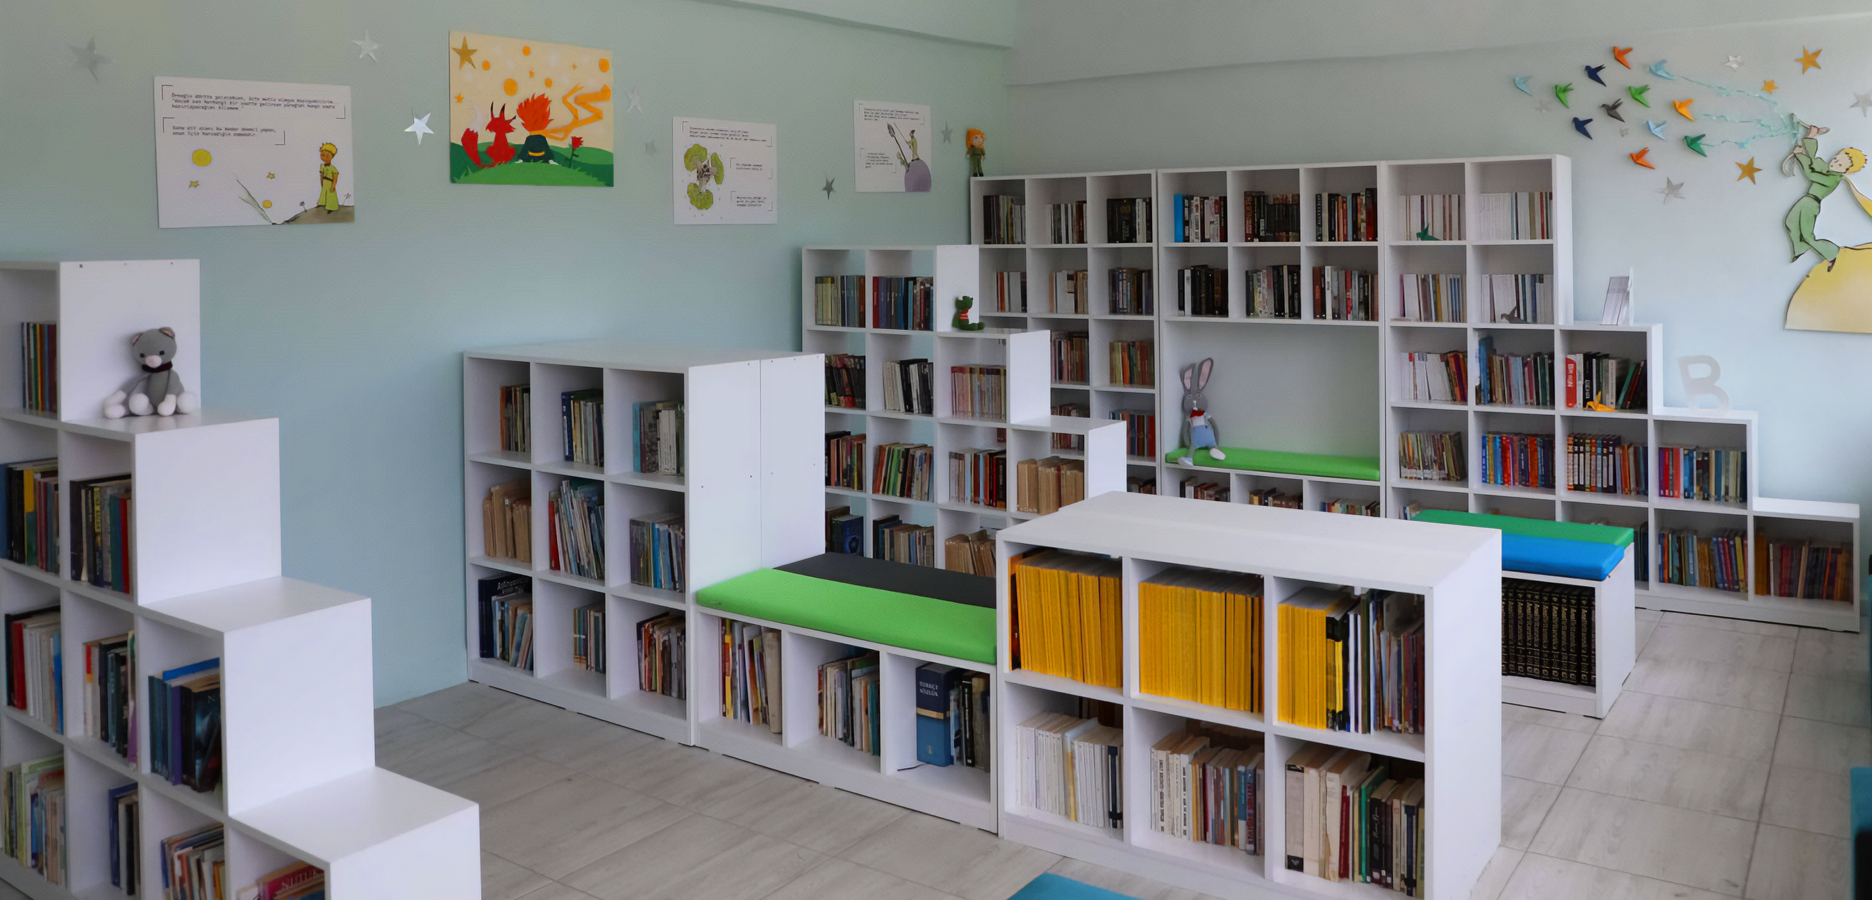
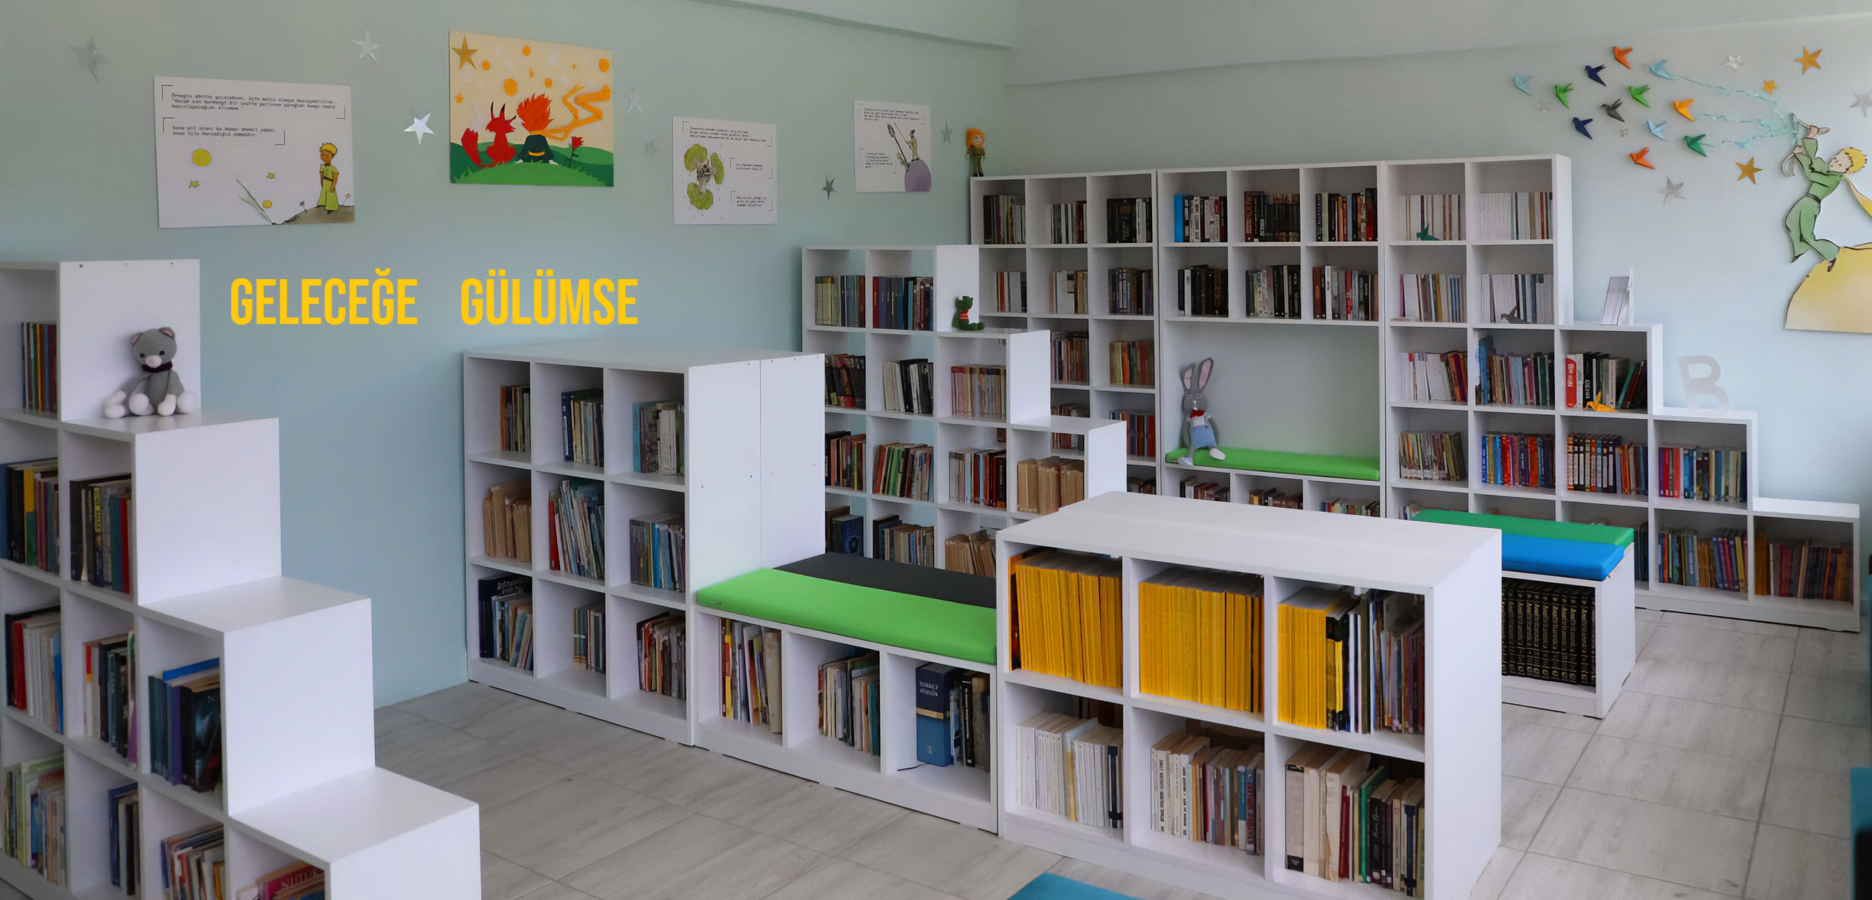
Footer Tamamlandı Ana Sayfada birkaç değişiklik yapıldı

Changed region(s): [[0.1239, 0.3111, 0.3408, 0.3733]]

diff --git a/src/components/Footer.jsx b/src/components/Footer.jsx
@@ -9,72 +9,63 @@ const Footer = () => {
       <div className='footer'>
         <div className='footerDesc'>
           <div className='footerComment'>
-
             <section>
               <h6 className='downloadGetirApplication'>Ne İstersin'i indirin!</h6>
               <nav className='downloadGetirApplicationIcon'>
-                <a href="#">
+                <Link to="/*">
                   <img src="https://getir.com/_next/static/images/appstore-tr-141ed939fceebdcee96af608fa293b31.svg" alt="" />
-                </a>
-                <a href="#">
+                </Link>
+                <Link to="/*">
                   <img src="https://getir.com/_next/static/images/googleplay-tr-6b0c941b7d1a65d781fb4b644498be75.svg" alt="" />
-                </a>
-                <a href="#">
+                </Link>
+                <Link to="/*">
                   <img src="https://getir.com/_next/static/images/huawei-appgallery-tr-4b890fa3167bc62f9069edaf45aa7f30.svg" alt="" />
-                </a>
+                </Link>
               </nav>
             </section>
-
             <section>
               <h6 className='downloadGetirApplication'>Ne İstersin'i Keşfedin</h6>
               <nav className='footerFirstStatemenet' >
                 <ul>
-                  <li ><Link to="/Hakkımızda"> <a href="#"><p2 className="statment">Hakkımızda</p2><br /></ a></Link></li>
-                  <li><Link to="/İletişim"> <a href="#"><p2 className="statment">İletişim</p2><br /></a></Link></li>
-                  <li><Link to="/Teknoloji Kariyerleri"> <a href="#"><p2 className="statment">Teknoloji Kariyerleri</p2><br />  </a></Link></li>
-                  <li><Link to="/Sosyal Sorumluluk Projeleri"><a href="#"><p2 className="statment">Sosyal Sorumluluk Projeleri</p2></a></Link></li>
+                  <li ><Link to="/Hakkımızda"><p2 className="statment">Hakkımızda</p2><br /></Link></li>
+                  <li><Link to="/İletişim"><p2 className="statment">İletişim</p2><br /></Link></li>
+                  <li><Link to="/Teknoloji Kariyerleri"><p2 className="statment">Teknoloji Kariyerleri</p2><br /></Link></li>
+                  <li><Link to="/Sosyal Sorumluluk Projeleri"><p2 className="statment">Sosyal Sorumluluk Projeleri</p2></Link></li>
                 </ul>
               </nav>
             </section>
-
             <section>
               <h6 className='downloadGetirApplication'>Size Yardımcı Olalım?</h6>
               <nav className='footerFirstStatemenet' >
                 <ul>
-                  <li> <a href="#"><p2 className="statment">Sıkça Sorulan Sorular</p2><br /></a></li>
-                  <a href="#"><p2 className="statment">Kişisel Verilerin Korunması</p2><br /></a>
-                  <a href="#"><p2 className="statment">Gizlilik Politikası</p2><br />  </a>
-                  <a href="#"> <p2 className="statment">Kullanım Koşulları</p2><br /></a>
-                  <a href="#"><p2 className="statment">Çerez Politikası</p2></a> <br />
+                  <li> <Link to="Sıkça-Sorulan-Sorular"><p2 className="statment">Sıkça Sorulan Sorular</p2><br /></Link></li>
+                  <Link to="/Kişisel-Verilerin-Korunması"><p2 className="statment">Kişisel Verilerin Korunması</p2><br /></Link>
+                  <Link to="/Gizlilik-Politikası"><p2 className="statment">Gizlilik Politikası</p2><br />  </Link>
+                  <Link to="/Çerez-Politikası"><p2 className="statment">Çerez Politikası</p2></Link> <br />
                 </ul>
               </nav>
             </section>
-
             <section>
               <h6 className='downloadGetirApplication'>İş Ortağımız Olun</h6>
               <nav className='footerFirstStatemenet' >
                 <ul>
-                  <li> <a href="#"><p2 className="statment">Bayimiz Olun</p2><br /></a></li>
-                  <a href="#"><p2 className="statment">Deponuzu Kiralayın</p2><br /></a>
-                  <a href="#"><p2 className="statment">Restorantımız Olun</p2><br />  </a>
-                  <a href="#"> <p2 className="statment">Zincir Restoranlar</p2><br /></a>
-                  <a href="#"><p2 className="statment">İşlem Rehberi</p2></a>
+                  <Link to="/*"><p2 className="statment">Deponuzu Kiralayın</p2><br /></Link>
+                  <Link to="/*"><p2 className="statment">Restorantımız Olun</p2><br />  </Link>
+                  <Link to="/*"> <p2 className="statment">Zincir Restoranlar</p2><br /></Link>
+                  <Link to="/*"><p2 className="statment">İşlem Rehberi</p2></Link>
                 </ul>
               </nav>
             </section>
-
-
             <div className="lowerFooter">
               <p className='copyright'> <hr /> &copy; 2023  <span> ~ Bahadır Bulut
                 <br />
-                <a href="#"> **   Bilgi Toplumu Hizmetleri İçin Tıklayınız  🥰 </a>   </span></p>
+                <Link to="/*"> **   Bilgi Toplumu Hizmetleri İçin Tıklayınız  🥰 </Link>   </span></p>
               <nav className='footerIcon'>
                 <a href="https://github.com/Bahadir-blt/" target='_blank'> <FaGithub /> </a>
                 <a href="https://twitter.com/bulutbahadirr"> <FaTwitter /> </a>
                 <a href="https://www.instagram.com/bahadir.bulutt/" target='_blank'> <FaInstagram /> </a>
               </nav>
             </div>
-
           </div>
         </div>
       </div>

diff --git a/src/foot/Cookiepolicy.jsx b/src/foot/Cookiepolicy.jsx
@@ -1,0 +1,25 @@
+import '../css/page.css'
+
+export default function CookiePolicy() {
+    return (
+        <>
+            <h1 className='privacyPolicy' >Çerez Politikamız</h1>
+
+            <p className='privacyPolicyDesc'>
+
+
+                Bu Çerez Politikası,  Ne İstersin olarak adlandırılan şirketimiz tarafından işletilen web sitesi ve diğer dijital platformlarda kullanılan çerezlerle ilgili açıklamalarda bulunmaktadır. Çerezler, web sitesinin düzgün bir şekilde çalışması için gerekli olan ve kullanıcı deneyimini geliştirmek amacıyla kullanılan küçük metin dosyalarıdır. Lütfen bu politikayı dikkatlice okuyunuz.
+                <br /><span>Çerez Kullanımı:</span>
+                Web sitemizi ziyaret ettiğinizde, tarayıcınıza bir veya birkaç çerez yerleştirebiliriz. Bu çerezler, web sitesinin kullanımını analiz etmek, içeriği kişiselleştirmek, reklamları özelleştirmek ve genel kullanıcı deneyimini iyileştirmek için kullanılır.
+                Türleri:
+                Web sitemizde kullanılan çerezler, oturum çerezleri (session cookies) ve kalıcı çerezler (persistent cookies) gibi çeşitli türleri içerebilir. Oturum çerezleri, tarayıcı penceresi kapatıldığında silinen geçici çerezlerdir. Kalıcı çerezler ise belirli bir süre boyunca cihazınızda saklanabilir.
+                 <br /><span>Üçüncü Taraf Çerezleri:</span>
+                Üçüncü taraf hizmet sağlayıcıları tarafından da çerezler kullanılabilir. Bu çerezler, reklamcılık, analiz ve diğer hizmetler için kullanılabilir. Bu çerezlerin kullanımı, ilgili üçüncü tarafın gizlilik politikalarına tabi olabilir.
+                Çerez Ayarları:
+                Tarayıcı ayarlarınızı kullanarak çerezleri kabul etmeyi veya reddetmeyi tercih edebilirsiniz. Ancak, çerezleri devre dışı bırakmak, web sitemizin bazı fonksiyonlarının düzgün çalışmasını engelleyebilir.
+                Değişiklikler:
+                Çerez Politikamızdaki değişiklikleri zaman zaman güncelleyebiliriz. Bu değişiklikleri size bildirmek amacıyla sitemizde duyurular yapabiliriz.
+                Bu Çerez Politikası, [23.12.2023] itibariyle yürürlüktedir. Politikamızla ilgili herhangi bir sorunuz varsa, lütfen [iletisim@neistersin.com] adresinden bizimle iletişime geçiniz.
+            </p> </>
+    )
+}

diff --git a/src/foot/Privacypolicy.jsx b/src/foot/Privacypolicy.jsx
@@ -1,0 +1,24 @@
+import '../css/page.css'
+
+export default function Privacypolicy() {
+    return (
+        <>
+            <h1 className='privacyPolicy' >Gizlilik Politikamız</h1>
+            <p className='privacyPolicyDesc'>
+                Bu Gizlilik Politikası, Ne İstersin olarak adlandırılan şirketimiz tarafından işletilen web sitesi ve diğer dijital platformlarda topladığımız,
+                kullandığımız, paylaştığımız ve sakladığımız bilgilerle ilgili açıklamalarda bulunmaktadır. Sizinle ilgili topladığımız bilgilerin gizliliğine ve güvenliğine önem veriyoruz. Lütfen bu politikayı dikkatlice okuyunuz.
+                Toplanan Bilgiler:
+                Web sitemizi ziyaret ettiğinizde veya hizmetlerimizi kullandığınızda,
+                kişisel bilgilerinizi (ad, e-posta adresi, telefon numarası vb.) belirli durumlar için toplayabiliriz. Bu bilgileri sağlarken gizliliğinizi korumak için gerekli önlemleri alırız.
+                Bilgi Kullanımı:
+                Topladığımız bilgileri, size sunduğumuz hizmetleri sağlamak, iyileştirmek, kişiselleştirmek, yeni hizmetler geliştirmek ve güvenliği sağlamak amacıyla kullanabiliriz. Ayrıca, sizden izin aldığımız veya yasal bir zorunluluğa tabi olduğumuz durumlar dışında, kişisel bilgilerinizi üçüncü taraflarla paylaşmamaktayız.
+                Çerezler ve Takip Teknolojileri:
+                Gizlilik Haklarınız:
+                KVKK ve benzeri yasal düzenlemelere uygun olarak, kişisel verileriniz üzerinde kontrol sahibi olmanızı sağlamak için çeşitli haklara sahipsiniz. Bu hakları kullanma ve bilgi talebinde bulunma konusunda size yardımcı olmak için buradayız.
+                Değişiklikler:
+                Gizlilik Politikamızdaki değişiklikleri zaman zaman güncelleyebiliriz. Bu değişiklikleri size bildirmek amacıyla sitemizde duyurular yapabiliriz.
+                Bu Gizlilik Politikası, [23.12.2023] itibariyle yürürlüktedir. Politikamızla ilgili herhangi bir sorunuz varsa, lütfen [iletisim@neistersin.com] adresinden bizimle iletişime geçiniz.
+            </p>
+            </>
+    )
+}

diff --git a/src/main.jsx b/src/main.jsx
@@ -27,6 +27,11 @@ import Health from './ProductItem/Health.jsx'
 import Responsibility from './foot/Responsibility.jsx'
 import LoginRegister from './components/Login.jsx'
 import { createClient } from '@supabase/supabase-js'
+import Questions from './foot/Questions.jsx'
+import Conservation from './foot/Conservation.jsx'
+import Privacypolicy from './foot/Privacypolicy.jsx'
+import CookiePolicy from './foot/Cookiepolicy.jsx'
+import Notfound from './components/Notfound.jsx'
 export const supabase = createClient('https://vyylaomwkgdihavezcsw.supabase.co', 'eyJhbGciOiJIUzI1NiIsInR5cCI6IkpXVCJ9.eyJpc3MiOiJzdXBhYmFzZSIsInJlZiI6InZ5eWxhb213a2dkaWhhdmV6Y3N3Iiwicm9sZSI6ImFub24iLCJpYXQiOjE3MDMxNzg3NTMsImV4cCI6MjAxODc1NDc1M30.V7xqe7wshf0UImKgExIFpctlLEpmGMK-LfAxrxj6OYc')
 
 const router = createBrowserRouter (
@@ -110,6 +115,10 @@ const router = createBrowserRouter (
           ] 
         },
         {
+          path : '/*',
+          element : <Notfound  />,
+        },
+        {
           path : '/login',
           element : <LoginRegister  />,
         },
@@ -133,10 +142,23 @@ const router = createBrowserRouter (
         {
           path : '/Sosyal Sorumluluk Projeleri',
           element : <Responsibility/>,
+        },
+        {
+          path : '/Sıkça-Sorulan-Sorular',
+          element : <Questions />,
+        },
+        {
+          path : '/Kişisel-Verilerin-Korunması',
+          element : <Conservation />,
+        },
+        {
+          path : '/Gizlilik-Politikası',
+          element : <Privacypolicy/>,
+        },
+        {
+          path : '/Çerez-Politikası',
+          element : <CookiePolicy/>,
         }
-       
-       
-       
       ]
     }
   ]

diff --git a/src/foot/Responsibility.jsx b/src/foot/Responsibility.jsx
@@ -1,7 +1,17 @@
+import '../css/page.css'
+
+
 export default function Responsibility () {
     return (
         <>
-        deneme
+        <div className="responsibilityContainer">
+        <img className="responsibilityImage"   src="src\image\SSP\gelecege-gulumse_1633372820108.png" alt="" />
+        <h3 className='responsibilityHeader'> <span className='smile'>Geleceğe Gülümse</span>  Destek - 2018 </h3>
+        <p className='responsibilityText'>Çocukların hayallerine sahip çıkan ve hayallerine giden yolda onları destekleyen Geleceğe Gülümse ekibiyle birlikte 23 Nisan Ulusal Egemenlik ve Çocuk Bayramı’nda Çanakkale Evciler Köyü Şehit Osman Özkan İlkokulu’nu ziyaret ettik. Getir gönüllüleriyle, öğrencilerin geleceğine ve okuma alışkanlıklarının artmasına katkıda bulunmak için bir kütüphane inşa ettik.</p>
+        <img className='responsibilityImageTwo' src="src\image\SSP\patili-dostlar_1633373032958.png" alt="" />
+        <h3 className='responsibilityHeader'> <span className='smile'>Sokaktaki Patili Dostlarımıza Mama Yardımı</span>  Koronavirüs Dönemi </h3>
+        <p className='responsibilityText'>Korona Döneminde Sokak Hayvanlarına Mama Yardımı” projemiz kapsamında uygulamamız üzerinden sipariş verilen her 5 TL değerindeki Yardım Maması’nı HAYTAP aracılığıyla sokak hayvanlarına ulaştırdık. Pandemi döneminde yaşanan sokağa çıkma yasakları ve işletmelerin kapanması nedeniyle sokaklarda aç kalan patili dostlarımıza toplam 23 ton mama desteği sağladık.</p>
+        </div>
         </>
     ) 
 

diff --git a/src/css/Page.css b/src/css/Page.css
@@ -90,3 +90,81 @@
     border-radius: 20%;
     border: 1px solid #838181;
 }
+.responsibilityImage{
+    width: 100%;
+    height: 100%;
+    object-fit: cover;
+    border-radius: 0px;
+    opacity: 0.7;
+}
+.responsibilityHeader{
+    text-align: center;
+    margin-top: 15px;
+ 
+    letter-spacing: 0.16px;
+    color: rgb(62, 62, 62);
+}
+.smile{
+    color: #5c3cbb;
+}
+.responsibilityText{
+    text-align: center;
+    margin-top: 15px;
+    letter-spacing: 0.16px;
+    color: rgb(62, 62, 62);
+}
+.responsibilityImageTwo{
+    margin-top: 50px;
+}
+.questionsMainHeader{
+    margin:50px 50px;
+    color: #5c3cbb;
+ 
+
+}
+.questionsHeader{
+    padding-top: 20px;
+    color: #ffd300;
+    margin-left: 50px;
+}
+.questions{
+    margin-top: 15px;
+    font-size: 15px;
+    color:rgb(0, 0, 0); 
+}
+.questionscontainer{
+
+    display: grid;
+    grid-template-columns: 1fr 1fr  1fr ;
+}
+.conservation{
+    margin:55px 150px;
+    display: flex;
+    gap: 15px;
+}
+.privacyPolicy{
+    color: blueviolet   ;
+    margin:15px 50px;
+    display: flex;
+    gap: 15px;
+}
+.privacyPolicyDesc{
+    font-size: 17px;
+   margin-left: 50px;
+    margin-top: 15px;
+    letter-spacing: 0.16px;
+    color: rgb(62, 62, 62);
+   width: 1200px;
+}
+.error{
+    color: #5c3cbb;
+    height: 500px;
+  text-align: center;
+  margin-top: 250px;
+  & .goHome{
+ padding-top: 35px;
+ cursor: pointer;
+ color: #ffd300;
+ text-decoration: none;
+  }
+}

diff --git a/src/foot/Questions.jsx b/src/foot/Questions.jsx
@@ -1,0 +1,21 @@
+import '../css/page.css'
+
+export default function Questions() {
+    return (
+        <>
+            <h1 className="questionsMainHeader">Sıkça Sorulan Sorular ?</h1>
+            <div className="questionscontainer">
+
+                <h2 className='questionsHeader'>"Ne İstersin" nedir?  <p className='questions'>"Ne İstersin" , çeşitli ürün ve hizmetleri bulabileceğiniz bir çevrimiçi platformdur. İhtiyaçlarınızı karşılamak için geniş bir ürün ve hizmet yelpazesi sunar.</p></h2>
+
+                <h2 className='questionsHeader'>Nasıl bir ürün veya hizmet bulabilirim?   <p className='questions'>Ana sayfada bulunan kategoriler sekmesini kullanarak ihtiyacınıza uygun ürünü  kolayca bulabilirsiniz.</p></h2>
+
+                <h2 className='questionsHeader'>Nasıl bir sipariş verebilirim?  <p className='questions'>Kategoriler sayfasına giderek "Sepete Ekle" seçeneklerini kullanarak siparişinizi oluşturabilirsiniz.</p> </h2>
+
+                <h2 className='questionsHeader'> Sipariş durumu nasıl takip edilir?  <p className='questions'>Hesabınıza giriş yaparak veya sipariş onay e-postanızdaki takip numarasını kullanarak sipariş durumunuzu kolayca takip edebilirsiniz.</p> </h2>
+            </div>
+        </>
+    )
+
+
+}

diff --git a/src/foot/Conservation.jsx b/src/foot/Conservation.jsx
@@ -1,0 +1,13 @@
+import '../css/page.css'
+
+
+export default function Conservation () {
+    return (
+        <>
+        <p className='conservation'>
+       Ne istersin olarak adlandırılan şirketimiz tarafından işletilen web sitesi ve diğer dijital 
+       platformlar üzerinden toplanan kişisel verilerin nasıl işleneceği ve korunacağına dair bilgileri içermektedir.
+       Bu kapsamda, kullanıcıların sağladığı kişisel bilgilerin, yasal mevzuata uygun bir şekilde ve belirli amaçlar doğrultusunda işleneceğini taahhüt ederiz. Veri sorumlusu olarak, kullanıcıların gizliliğini önemsiyor ve kişisel verilerin güvenliğini sağlamak için gerekli önlemleri alıyoruz. KVKK'nın öngördüğü haklara saygı gösterirken, kullanıcılara kişisel verilerini nasıl kontrol edebilecekleri ve bu hakları nasıl kullanabilecekleri konusunda açık bilgiler sunuyoruz. İşbu metin, şeffaflık ilkesi doğrultusunda düzenlenmiş olup, kişisel verilerin güvenli ve adil bir şekilde işlenmesine yönelik taahhütlerimizi içermektedir.</p>
+        </>
+    )
+}

diff --git a/src/components/Notfound.jsx b/src/components/Notfound.jsx
@@ -1,0 +1,11 @@
+import { Link } from 'react-router-dom'
+import '../css/page.css'
+
+
+export default function Notfound () {
+    return (
+        <>
+       <h1 className='error'>SAYFA BULUNAMADI !<Link className='goHome' to="/"><p className='goHome'>Ana Sayfaya Dön</p></Link> </h1>
+        </>
+    )
+}
